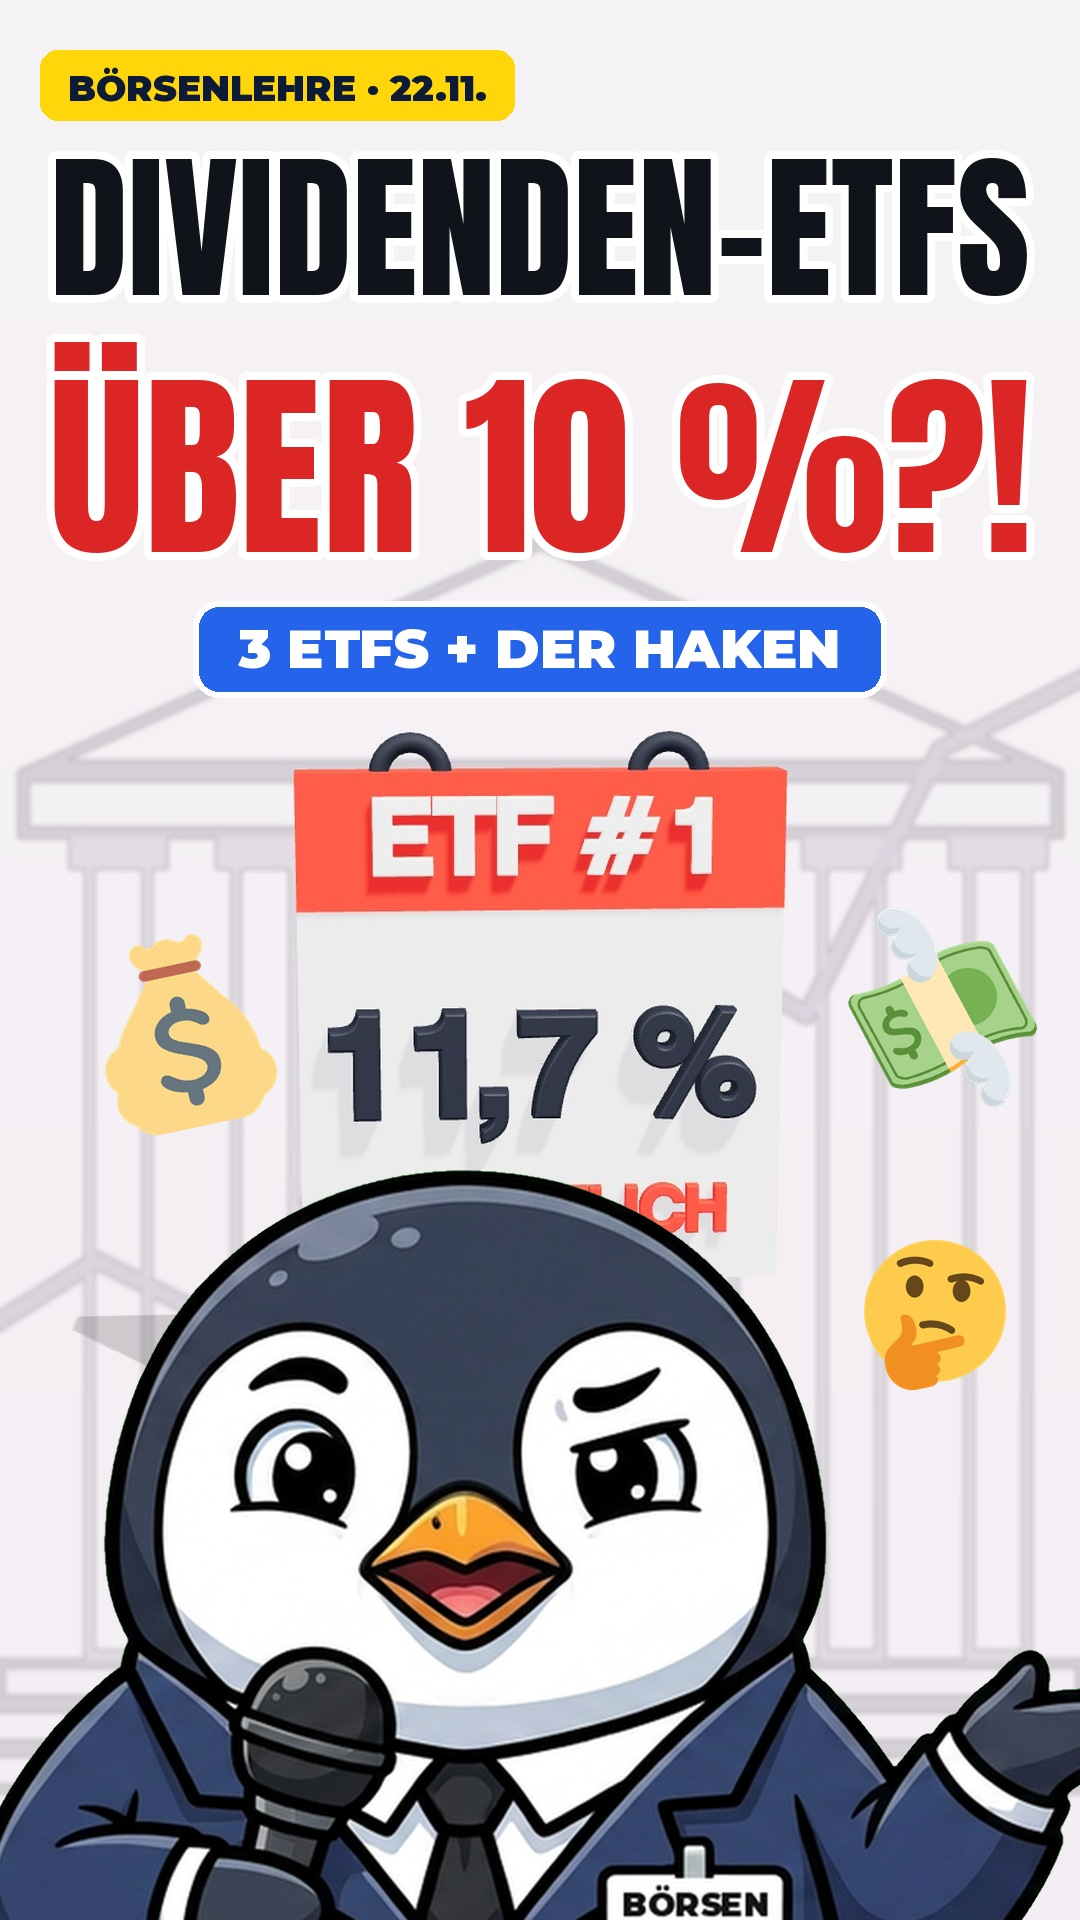
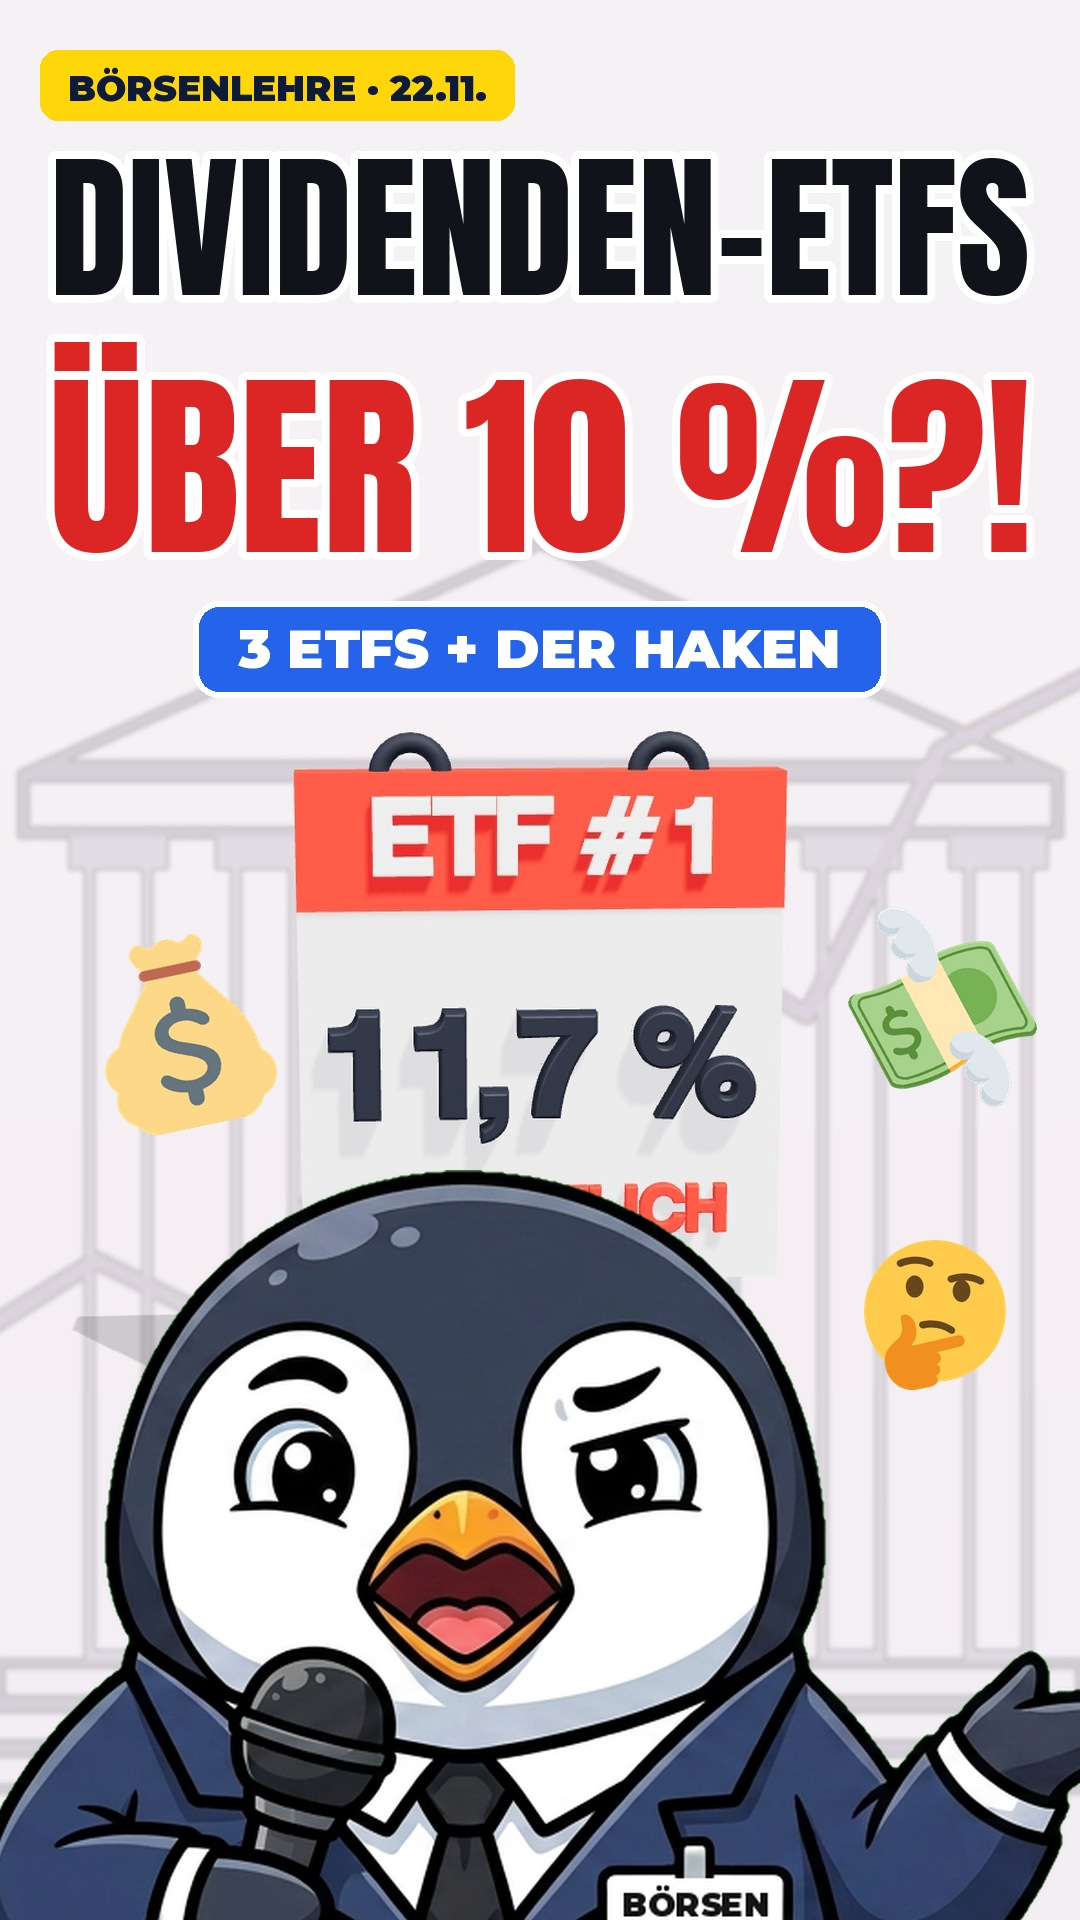
Add original penguin poses (4 poses x 3 mouths) and use them in sprites
Claude-Session: https://claude.ai/code/session_01CHydTueGxAfDzkG3KWoZUb

diff --git a/video-tools/v3/make_sprites.py b/video-tools/v3/make_sprites.py
@@ -1,49 +1,29 @@
-"""Baut die Pinguin-Sprites m_<pose>_<mund>.png (Greenscreen) aus website/assets/pinguin-hero.png.
-Entfernt den weißen Sticker-Rand und erzeugt drei Mundstellungen (closed/mid/open)."""
+"""Baut die Pinguin-Sprites m_<pose>_<mund>.png (Greenscreen) für compose3.py.
+Quelle: video-tools/v3/pinguin/pinguin_<pose>_mund_<zu|halb|offen>.png (4 Posen × 3 Mundstellungen).
+Entfernt den weißen Sticker-Rand und richtet alle Posen an den Füßen mittig aus."""
 import os, numpy as np
-from PIL import Image, ImageDraw, ImageFilter
+from PIL import Image, ImageFilter
 from scipy import ndimage
-D = os.path.dirname(os.path.abspath(__file__)); ROOT = os.path.dirname(os.path.dirname(D))
-im = Image.open(f"{ROOT}/website/assets/pinguin-hero.png").convert("RGBA")
-im = im.resize((im.width * 2, im.height * 2), Image.LANCZOS)
-a = np.asarray(im).astype(np.int16)
-r, g, b, al = a[..., 0], a[..., 1], a[..., 2], a[..., 3]
-# Sticker-Rand: weiße Pixel, die mit dem transparenten Außenbereich verbunden sind
-white = (r > 215) & (g > 215) & (b > 215) & (al > 0)
-outside = al < 40
-rim = ndimage.binary_propagation(outside, mask=outside | white) & ~outside
-alpha = np.where(rim | outside, 0, al).astype(np.uint8)
-alpha = np.asarray(Image.fromarray(alpha).filter(ImageFilter.MinFilter(3)).filter(ImageFilter.GaussianBlur(0.7)))
-base = np.dstack([a[..., :3].astype(np.uint8), alpha])
-# Mundinnenraum
-H, W = alpha.shape
-yy, xx = np.mgrid[0:H, 0:W]
-box = (xx > 420) & (xx < 640) & (yy > 400) & (yy < 500)
-inner = box & (r > 55) & (r - g > 35) & (b > 0.6 * g)
-inner = ndimage.binary_closing(inner, iterations=2)
-inner = ndimage.binary_fill_holes(inner)
-lab, n = ndimage.label(inner); sizes = ndimage.sum(inner, lab, range(1, n + 1)); inner = lab == (np.argmax(sizes) + 1)
-ORANGE = (243, 164, 52); LINE = (24, 22, 30)
-def variant(frac):
-    out = base.copy()
-    cols = np.where(inner.any(axis=0))[0]
-    lip = []
-    for x in cols:
-        ys = np.where(inner[:, x])[0]; y0, y1 = ys.min(), ys.max()
-        keep = y0 + int((y1 - y0) * frac)
-        for y in ys:
-            if y > keep: out[y, x, :3] = ORANGE
-        lip.append((x, keep))
-    img = Image.fromarray(out, "RGBA"); d = ImageDraw.Draw(img)
-    if frac < 0.99:
-        d.line(lip, fill=LINE + (255,), width=5)
-    if frac == 0:
-        top = [(x, np.where(inner[:, x])[0].min()) for x in cols]
-        d.line(top, fill=LINE + (255,), width=5)
-    return img
-for mname, frac in [("closed", 0.0), ("mid", 0.5), ("open", 1.0)]:
-    v = variant(frac)
-    for pose in ["base", "q", "shock", "explain"]:
-        gs = Image.new("RGBA", v.size, (0, 255, 0, 255)); gs.alpha_composite(v)
-        gs.convert("RGB").save(f"{D}/m_{pose}_{mname}.png")
-print("ok", inner.sum())
+D = os.path.dirname(os.path.abspath(__file__))
+POSES = {"base": "neutral", "q": "fragend", "shock": "geschockt", "explain": "erklaerend"}
+MOUTH = {"closed": "zu", "mid": "halb", "open": "offen"}
+def unrim(im):
+    a = np.asarray(im.convert("RGBA")).astype(np.int16)
+    r, g, b, al = a[..., 0], a[..., 1], a[..., 2], a[..., 3]
+    white = (r > 215) & (g > 215) & (b > 215) & (al > 0)
+    outside = al < 40
+    rim = ndimage.binary_propagation(outside, mask=outside | white) & ~outside
+    alpha = np.where(rim | outside, 0, al).astype(np.uint8)
+    alpha = np.asarray(Image.fromarray(alpha).filter(ImageFilter.MinFilter(3)).filter(ImageFilter.GaussianBlur(0.7)))
+    return Image.fromarray(np.dstack([a[..., :3].astype(np.uint8), alpha]), "RGBA")
+def feet_x(im):
+    al = np.asarray(im.split()[3]); h = al.shape[0]
+    cols = np.where((al[int(h * 0.88):] > 128).any(axis=0))[0]
+    return (cols.min() + cols.max()) / 2
+src = {(p, m): unrim(Image.open(f"{D}/pinguin/pinguin_{POSES[p]}_mund_{MOUTH[m]}.png")) for p in POSES for m in MOUTH}
+CW = 900; H = max(im.height for im in src.values())
+for (p, m), im in src.items():
+    cv = Image.new("RGBA", (CW, H), (0, 255, 0, 255))
+    cv.alpha_composite(im, (int(CW / 2 - feet_x(im)), H - im.height))
+    cv.convert("RGB").save(f"{D}/m_{p}_{m}.png")
+print("ok", len(src))

diff --git a/video-tools/v3/make_cover.py b/video-tools/v3/make_cover.py
@@ -33,7 +33,7 @@ for code, x, yy, s, rot in [("1f4b0", 70, 920, 190, 12), ("1f4b8", 830, 900, 190
     fr.alpha_composite(e, (x, yy))
 # Pinguin Close-up
 sys.path.insert(0, D)
-sp = Image.open(f"{D}/m_base_open.png").convert("RGB")
+sp = Image.open(f"{D}/m_q_open.png").convert("RGB")
 import numpy as np
 a = np.asarray(sp).astype(np.int16); r, g, b = a[..., 0], a[..., 1], a[..., 2]
 dom = g - np.maximum(r, b); al = np.clip(255 - (dom - 30) * 4, 0, 255).astype(np.uint8)

diff --git a/UEBERGABE.md b/UEBERGABE.md
@@ -35,8 +35,8 @@ in kurzen Hochformat-Videos (~30–45 s), Stil angelehnt an die Eule von „fina
 
 ## Assets wiederherstellen
 - In einer frischen Session zuerst `bash video-tools/v3/setup.sh` ausführen (Fonts, three.js, Pinguin-Sprites,
-  Hintergrund, Musik). Emojis: `node video-tools/v3/emoji.js <codes>`. Hinweis: Die Pinguin-Sprites werden aus
-  `website/assets/pinguin-hero.png` gebaut (eine Pose, 3 Mundstellungen) – die alten 4-Posen-Sprites waren nicht im Repo.
+  Hintergrund, Musik). Emojis: `node video-tools/v3/emoji.js <codes>`. Die Pinguin-Originale (4 Posen: neutral, fragend,
+  geschockt, erklärend × Mund zu/halb/offen) liegen in `video-tools/v3/pinguin/`, freigestellte Posen in `branding/pinguin/`.
 
 ## Offene Punkte
 - Website: echte Social-Links eintragen, Impressum/Datenschutz ausfüllen, Hosting (z. B. GitHub Pages) einrichten.
